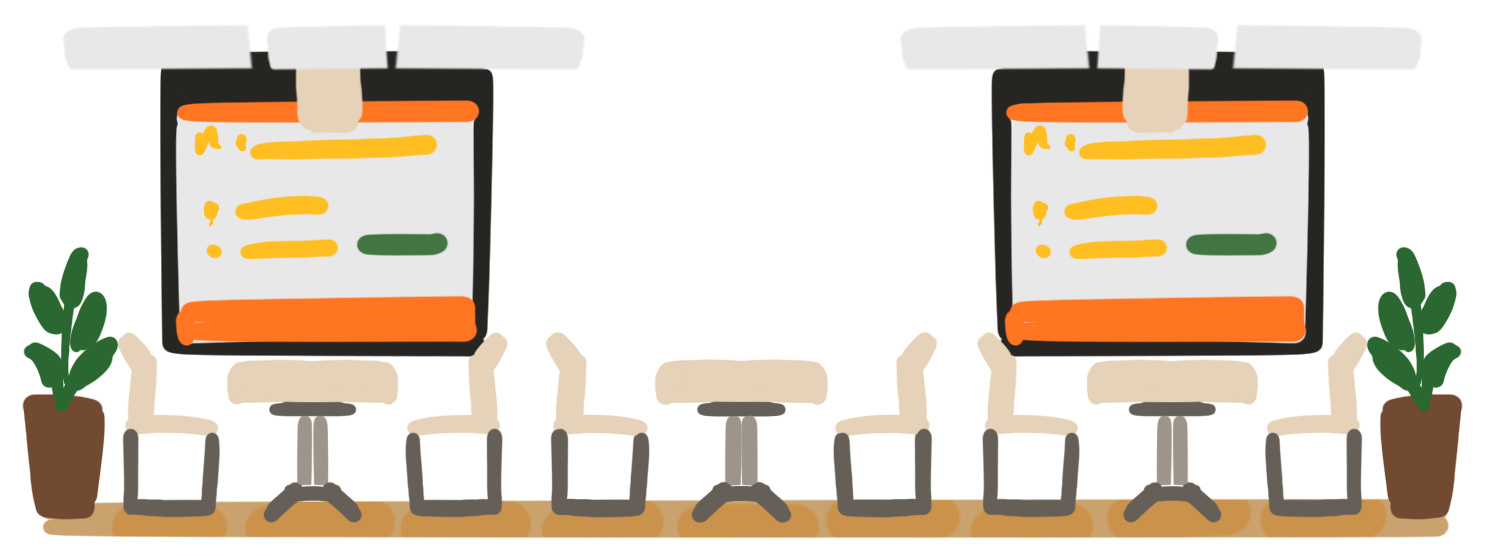
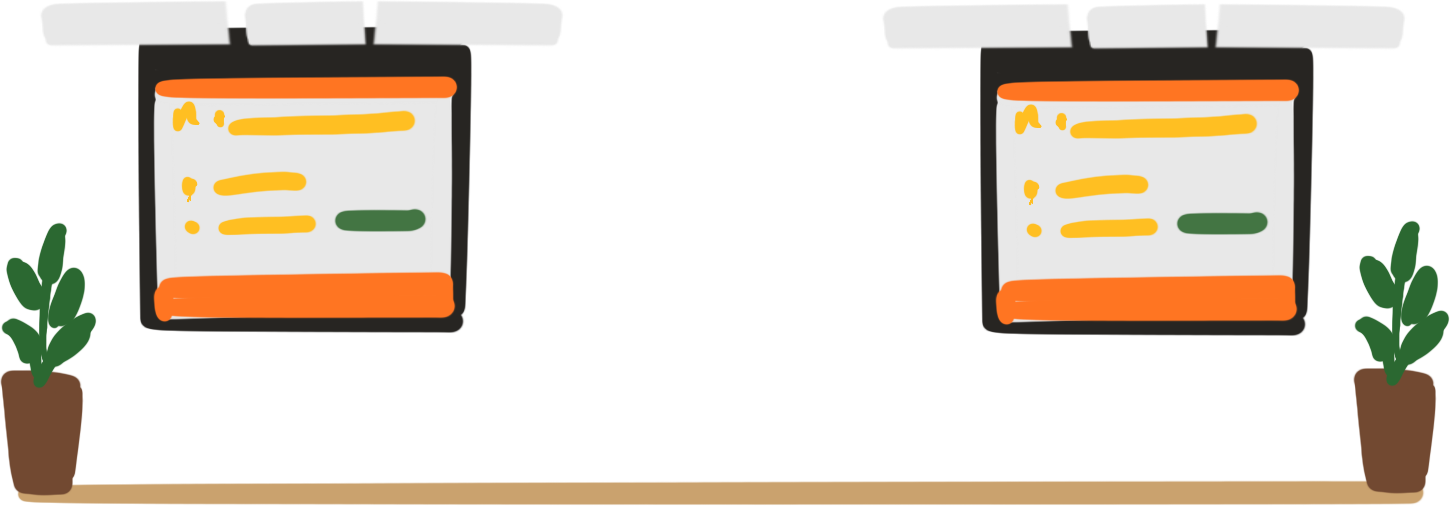
grrrr

diff --git a/src/components/GamePanel.jsx b/src/components/GamePanel.jsx
@@ -5,7 +5,7 @@ import { Stage, Sprite, Container, Text } from '@pixi/react';
 import NumberClicker from '../pixie/NumberClicker.jsx';
 import ImageToggle from '../pixie/ImageToggle.jsx';
 import ImageRemover from '../pixie/ImageRemover.jsx';
-import Darkness from '../pixie/Darkness.jsx';
+import ImagePusher from '../pixie/ImagePusher.jsx';
 
 
 export default function GamePanel({interactions})
@@ -25,19 +25,7 @@ export default function GamePanel({interactions})
         <Stage width={1500} height={560} options={{ background: 0xffffff }}>
 
           <ImageToggle X={750} Y={280} image={doorpng} 
-          toggleImage={()=>
-            {
-                opendoor(!doorstate);
-                if(doorstate)
-                {
-                    changedoor("doorclose.png");
-                }
-                else
-                {
-                    changedoor("dooropen.png");
-                }
-                ++interactions.doorClicks;
-            }}
+          interactions={interactions}
           ></ImageToggle>
           
           
@@ -52,12 +40,23 @@ export default function GamePanel({interactions})
         </Container>
 
 
-        <ImageRemover X={250} Y={335} image="cup.png" interactions={interactions}></ImageRemover>
-        <ImageRemover X={380} Y={335} image="cup.png" interactions={interactions}></ImageRemover>
+        <ImageRemover X={280} Y={335} image="cup.png" interactions={interactions}></ImageRemover>
+        <ImageRemover X={350} Y={335} image="cup.png" interactions={interactions}></ImageRemover>
         <ImageRemover X={700} Y={335} image="cup.png" interactions={interactions}></ImageRemover>
         <ImageRemover X={1120} Y={335} image="cup.png" interactions={interactions}></ImageRemover>
         <ImageRemover X={1180} Y={335} image="cup.png" interactions={interactions}></ImageRemover>
-        <Darkness lightsOn={false}></Darkness>
+
+        <ImagePusher X={180} Y={420} image="sprites/chair.png" interactions={interactions} direction={1}></ImagePusher>
+        <Sprite x={315} y={440} image="sprites/table.png" anchor={0.5}></Sprite>
+        <ImagePusher X={450} Y={420} image="sprites/chair.png" interactions={interactions} direction={-1}></ImagePusher>
+        
+        <ImagePusher X={580} Y={420} image="sprites/chair.png" interactions={interactions} direction={1}></ImagePusher>
+        <Sprite x={715} y={440} image="sprites/table.png" anchor={0.5}></Sprite>
+        <ImagePusher X={850} Y={420} image="sprites/chair.png" interactions={interactions} direction={-1}></ImagePusher>
+        
+        <ImagePusher X={1010} Y={420} image="sprites/chair.png" interactions={interactions} direction={1}></ImagePusher>
+        <Sprite x={1145} y={440} image="sprites/table.png" anchor={0.5}></Sprite>
+        <ImagePusher X={1280} Y={420} image="sprites/chair.png" interactions={interactions} direction={-1}></ImagePusher>
         </Stage>
       );
 }

diff --git a/src/pixie/ImagePusher.jsx b/src/pixie/ImagePusher.jsx
@@ -1,0 +1,76 @@
+import { useState, useRef } from 'react'
+import { Stage, Sprite, Container, Text } from '@pixi/react';
+import gsap from 'gsap';
+
+
+export default function ImagePusher({X, Y, image, interactions, direction})
+{
+    const [pushed, setPush] = useState(false);
+    const spriteRef = useRef(null);
+
+    return(
+        <Container x={0} y={0}>
+        <Sprite
+        image={image}
+        x={pushed?X + 50 * direction:X}
+        y={Y}
+        anchor={0.5}
+        scale={{x:direction,y:1}}
+        interactive={true}
+        ref={spriteRef}
+        pointerup={()=>
+        {
+            if(!pushed)
+            {
+                /*
+                gsap.fromTo(spriteRef.current, {x:X}, {
+                    x: X + 50 * direction,
+                    duration: 1,
+                    ease: "elastic.out(1, 1)"
+                });
+                */
+                setPush(true);
+                interactions.chairsPushed++;
+                gsap.to(spriteRef.current, {
+                    y: Y,
+                    duration: 1,
+                    ease: "elastic.out(1, 0.3)"
+                });
+            }
+            else
+            {
+                /*
+                gsap.fromTo(spriteRef.current, {x:X}, {
+                    x: X + 50 * direction,
+                    duration: 1,
+                    ease: "elastic.out(1, 1)"
+                });
+                */
+            }
+        }
+        }
+        onpointerenter={()=>
+        {
+            if(!pushed)
+            gsap.to(spriteRef.current, {
+                y: Y - 2,
+                duration: 1,
+                ease: "elastic.out(1, 0.3)"
+            });
+        }
+        }
+        onpointerleave={()=>
+        {
+            if(!pushed)
+            gsap.to(spriteRef.current, {
+                y: Y,
+                duration: 1,
+                ease: "elastic.out(1, 0.3)"
+            });
+        }
+        }
+        >
+        </Sprite>
+        </Container>
+    );
+}

diff --git a/src/pixie/ImageToggle.jsx b/src/pixie/ImageToggle.jsx
@@ -1,30 +1,39 @@
+import {useState} from 'react';
 import React, { Component } from 'react';
 import { BlurFilter, TextStyle } from 'pixi.js';
 import { Stage, Sprite, Container, Text } from '@pixi/react';
 
 
-export default class ImageToggle extends React.Component
+export default function ImageToggle({X, Y, interactions})
 {
+    const [doorstate, opendoor] = useState(false);
+    const [doorpng, changedoor] = useState("doorclose.png");
     
-    render()
-    {
         return (<Container x={0} y={0}>
             
             <Sprite
-            image={this.props.image}
-            x={this.props.X}
-            y={this.props.Y}
+            image={doorpng}
+            x={X}
+            y={Y}
             anchor={0.5}
             scale={1}
             interactive={true}
             pointerdown={()=>
             {
-              this.props.toggleImage();
+                opendoor(!doorstate);
+                if(doorstate)
+                {
+                    changedoor("doorclose.png");
+                }
+                else
+                {
+                    changedoor("dooropen.png");
+                    ++interactions.doorClicks;
+                }
             }
             }
             >
             </Sprite>
           </Container>
         );
-    }
 }

diff --git a/src/pixie/ImagePoker.jsx b/src/pixie/ImagePoker.jsx
@@ -7,18 +7,18 @@ export default function ImagePoker({image, interactions, isWhiteChick}) {
     const spriteRef = useRef(null);
 
     return(
-        <Stage width={300} height={350} options={{ background: 0xffffff, backgroundAlpha: 0}}>
+        <Stage width={300} height={500} options={{ background: 0xffffff, backgroundAlpha: 0}}>
             <Sprite
         image={image}
         x={150}
-        y={175}
+        y={300}
         anchor={(0.5, 0.5)}
         scale={0.5}
         interactive={true}
                 ref={spriteRef}
                 onpointerup={()=>
                 {
-                    if(spriteRef.current.y >= 175)
+                    if(spriteRef.current.y >= 300)
                     {
                         if(isWhiteChick)
                         {
@@ -29,7 +29,7 @@ export default function ImagePoker({image, interactions, isWhiteChick}) {
                             interactions.brownChickenClicks++;
                         }
                         gsap.to(spriteRef.current, {
-                            y: 150,
+                            y: 250,
                             duration: 0.1,
                             yoyo: true,
                             repeat:1,

diff --git a/src/main.jsx b/src/main.jsx
@@ -11,6 +11,7 @@ import ResultsPanel from './components/ResultsPanel';
 import Result from './data/Result';
 import Interactions from './data/Interactions.js'
 import InteractionsPanel from './components/InteractionsPanel.jsx'
+import Darkness from './pixie/Darkness.jsx'
 
 const user = new User();
 
@@ -35,6 +36,9 @@ createRoot(document.getElementById('root')).render(
           <>
             <div>
               <GamePanel interactions={interactions}/>
+            </div>
+            <div style={{position:'absolute', top: '0px'}}>
+              <Darkness interactions={interactions}/>
             </div>
             <div style={{marginTop: 'auto', paddingBottom: '0px'}}>
               <QuizPanel quizbank="./data/quizbank.json" />

diff --git a/src/pixie/Darkness.jsx b/src/pixie/Darkness.jsx
@@ -1,14 +1,14 @@
 
 import { Stage, Sprite, Container, Text } from '@pixi/react';
 
-export default function Darkness(lightsOn)
+export default function Darkness(interactions)
 {
-    if(lightsOn)
+    return;
+    if(interactions.lightsOn)
         return;
 
     return(
-        <Stage width={1500} height={560} options={{ background: 0x000000, backgroundAlpha: 0.7}}>
-
+        <Stage width={1500} height={560} options={{ background: 0x000000, backgroundAlpha: 0.7, interactive: false}}>
         </Stage>
     );
 }

diff --git a/src/data/interactionDisplayConfig.js b/src/data/interactionDisplayConfig.js
@@ -14,5 +14,9 @@ export const interactionDisplayConfig = {
   doorClicks: {
     label: "Door Interactions",
     formatMessage: (count) => `You have opened the door ${count} times!`
+  },
+  chairsPushed: {
+    label: "Chairs Pushed",
+    formatMessage: (count) => `You have pushed in ${count} chairs!`
   }
 };

diff --git a/src/data/Interactions.js b/src/data/Interactions.js
@@ -4,5 +4,7 @@ export default class Interactions {
         this.brownChickenClicks = 0;
         this.cupsPickedup = 0;
         this.doorClicks = 0;
+        this.lightsOn = false;
+        this.chairsPushed = 0;
     }
 }
